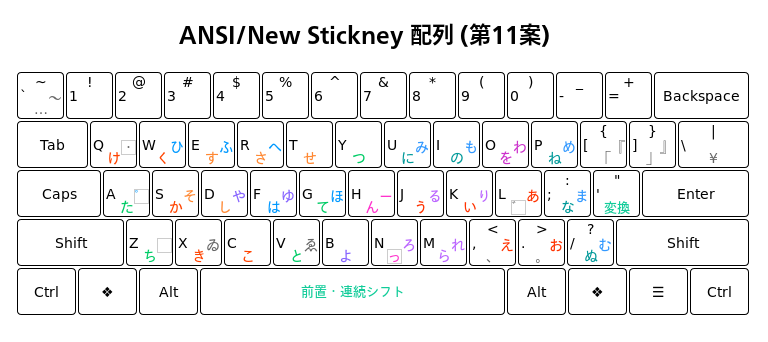
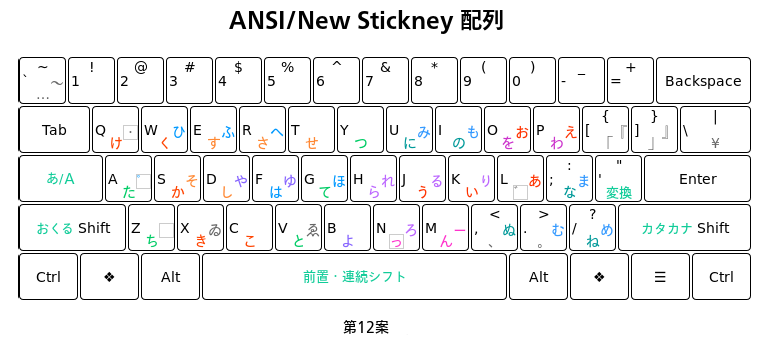
Add New Stickney 12th layout.
README.md
docs/new-stickney.png
docs/new-stickney12.html

diff --git a/docs/new-stickney12.html b/docs/new-stickney12.html
@@ -1,0 +1,228 @@
+<!doctype html>
+<html lang='en'>
+<head>
+<meta charset='UTF-8'>
+<link rel='license' href='http://creativecommons.org/publicdomain/zero/1.0/'>
+<title>ANSI/New Stickney 配列(第11案)</title>
+<style>
+body {
+  margin: 4px;
+  font-family: 'Tazugane Gothic StdN', sans-serif;
+  font-size: 14px;
+}
+h1 {
+  font-size: 1.6em;
+  width: 720px;
+  text-align: center;
+}
+.center {
+  width: 720px;
+  text-align: center;
+}
+
+.kbd {
+  position: relative;
+  height: 260px;
+  white-space: nowrap;
+  font-family: sans-serif;
+  font-size: 14px;
+}
+.layer {
+  position: absolute;
+}
+.layer>div {
+  display: inline-block;
+  padding: 1px;
+  width: 45px;
+  height: 45px;
+  margin: 1px;
+  vertical-align: bottom;
+}
+.layer>.k125 {
+  width: 57px;
+}
+.layer>.k150 {
+  width: 69px;
+}
+.layer>.k175 {
+  width: 82px;
+}
+.layer>.k200 {
+  width: 93px;
+}
+.layer>.k225 {
+  width: 105px;
+}
+.layer>.k275 {
+  width: 131px;
+}
+.layer>.k625 {
+  width: 303px;
+}
+.small {
+  display: inline-block;
+  border: 1px solid #ccc;
+  width: 13px;
+  text-align: center;
+  line-height: 13px;
+  font-size: 13px;
+}
+.kana {
+  color: #1c9;
+  font-size: 13px;
+}
+.kana-border {
+  border: 1px solid #3c6;
+}
+
+.a {
+  color: #f30
+}
+.k {
+  color: #f40
+}
+.s {
+  color: #f83
+}
+.t {
+  color: #0c6
+}
+.n {
+  color: #099
+}
+.h {
+  color: #09f
+}
+.m {
+  color: #39f
+}
+.y {
+  color: #86f
+}
+.r {
+  color: #b6f
+}
+.w {
+  color: #c3c
+}
+.x {
+  color: #f3c
+}
+
+.L0 {
+  top: 2px;
+  left: 12px;
+}
+.L0>div {
+  padding: 0;
+  border: solid 1px black;
+  border-radius: 4px;
+  text-align: center;
+  line-height: 45px;
+}
+.L1 {
+  top: 2px;
+  left: 14px;
+  line-height: 45px;
+}
+.L2 {
+  top: 2px;
+  left: 12px;
+  text-align: center;
+}
+.L3 {
+  top: 15px;
+  left: 12px;
+  text-align: center;
+  line-height: 45px;
+  color: #666;
+}
+.L4 {
+  top: 4px;
+  left: 42px;
+  line-height: 45px;
+  color: #666;
+}
+
+.key {
+  display: inline-block;
+  padding: 2px;
+  border: 1px solid #888;
+  border-radius: 4px;
+  line-height: 14px;
+  font-size: 14px;
+  height: 16px;
+}
+
+</style>
+</head>
+<body>
+<h1>ANSI/New Stickney 配列</h1>
+
+<div class='kbd'>
+<div class='layer L0'>
+<div></div><div></div><div></div><div></div><div></div><div></div><div></div><div></div><div></div><div></div><div></div><div></div><div></div><div class='k200'>Backspace</div>
+<br>
+<div class='k150'>Tab</div><div></div><div></div><div></div><div></div><div></div><div></div><div></div><div></div><div></div><div></div><div></div><div></div><div class='k150'></div>
+<br>
+<div class='k175 kana'>あ/Ａ</div><div></div><div></div><div></div><div></div><div></div><div></div><div></div><div></div><div></div><div></div><div></div><div class='k225'>Enter</div>
+<br>
+<div class='k225'><span class='kana'>おくる</span> Shift</div><div></div><div></div><div></div><div></div><div></div><div></div><div></div><div></div><div></div><div></div><div class='k275'><span class='kana'>カタカナ</span> Shift</div>
+<br>
+<div class='k125'>Ctrl</div><div class='k125'>❖</div><div class='k125'>Alt</div><div class='k625 kana'>前置・連続
+シフト</div><div class='k125'>Alt</div><div class='k125'>❖</div><div class='k125'>☰</div><div class='k125'>Ctrl</div>
+</div>
+
+<div class='layer L1'>
+<div>`</div><div>1</div><div>2</div><div>3</div><div>4</div><div>5</div><div>6</div><div>7</div><div>8</div><div>9</div><div>0</div><div>-</div><div>=</div><div class='k200'></div>
+<br>
+<div class='k150'></div><div>Q</div><div>W</div><div>E</div><div>R</div><div>T</div><div>Y</div><div>U</div><div>I</div><div>O</div><div>P</div><div>[</div><div>]</div><div class='k150'>\</div>
+<br>
+<div class='k175'></div><div>A</div><div>S</div><div>D</div><div>F</div><div>G</div><div>H</div><div>J</div><div>K</div><div>L</div><div>;</div><div>'</div><div class='k225'></div>
+<br>
+<div class='k225'></div><div>Z</div><div>X</div><div>C</div><div>V</div><div>B</div><div>N</div><div>M</div><div>,</div><div>.</div><div>/</div><div class='k275'></div>
+<br>
+<div class='k125'></div><div class='k125'></div><div class='k125'></div><div class='k625'></div><div class='k125'></div><div class='k125'></div><div class='k125'></div><div class='k125'></div>
+</div>
+
+<div class='layer L2'>
+<div>~</div><div>!</div><div>@</div><div>#</div><div>$</div><div>%</div><div>^</div><div>&amp;</div><div>*</div><div>(</div><div>)</div><div>_</div><div>+</div><div class='k200'></div>
+<br>
+<div class='k150'></div><div></div><div></div><div></div><div></div><div></div><div></div><div></div><div></div><div></div><div></div><div>{</div><div>}</div><div class='k150'>|</div>
+<br>
+<div class='k175'></div><div></div><div></div><div></div><div></div><div></div><div></div><div></div><div></div><div></div><div>:</div><div>"</div><div class='k225'></div>
+<br>
+<div class='k225'></div><div></div><div></div><div></div><div></div><div></div><div></div><div></div><div>&lt;</div><div>&gt;</div><div>?</div><div class='k275'></div>
+<br>
+<div class='k125'></div><div class='k125'></div><div class='k125'></div><div class='k625'></div><div class='k125'></div><div class='k125'></div><div class='k125'></div><div class='k125'></div>
+</div>
+
+<div class='layer L3'>
+<div>…</div><div></div><div></div><div></div><div></div><div></div><div></div><div></div><div></div><div></div><div></div><div></div><div></div><div class='k200'></div>
+<br>
+<div class='k150'></div><div><span class='k'>け</span></div><div class='k'>く</div><div class='s'>す</div><div class='s'>さ</div><div class='s'>せ</div><div class='t'>つ</div><div class='n'>に</div><div class='n'>の</div><div class='w'>を</div><div class='w'>わ</div><div>「</div><div>」</div><div class='k150'>¥</div>
+<br>
+<div class='k175'></div><div class='t'>た</div><div class='k'>か</div><div class='s'>し</div><div class='h'>は</div><div class='t'>て</div><div class='r'>ら</div><div class='a'>う</div><div class='a'>い</div><div><span class='small'>゛</span></div><div class='n'>な</div><div><span class='kana'>変換</span></div><div class='k225'></div>
+<br>
+<div class='k225'></div><div class='t'>ち</div><div class='k'>き</div><div class='k'>こ</div><div class='t'>と</div><div class='y'>よ</div><div><span class='small x'>っ</span></div><div class='x'>ん</div><div>、</div><div>。</div><div class='n'>ね</div><div class='k275'></div>
+<br>
+<div class='k125'></div><div class='k125'></div><div class='k125'></div><div class='k625'></div><div class='k125'></div><div class='k125'></div><div class='k125'></div><div class='k125'></div>
+</div>
+
+<div class='layer L4'>
+<div>〜</div><div></div><div></div><div></div><div></div><div></div><div></div><div></div><div></div><div></div><div></div><div></div><div></div><div class='k200'></div>
+<br>
+<div class='k150'></div><div><span class='small'>・</span></div><div class='h'>ひ</div><div class='h'>ふ</div><div class='h'>へ</div><div></div><div></div><div class='m'>み</div><div class='m'>も</div><div class='a'>お</div><div class='a'>え</div><div>『</div><div>』</div><div class='k150'></div>
+<br>
+<div class='k175'></div><div><span class='small h'>゜</span></div><div class='s'>そ</div><div class='y'>や</div><div class='y'>ゆ</div><div class='h'>ほ</div><div class='r'>れ</div><div class='r'>る</div><div class='r'>り</div><div class='a'>あ</div><div class='m'>ま</div><div></div><div class='k225'></div>
+<br>
+<div class='k225'></div><div><span class='small'>&nbsp</span></div><div>ゐ</div><div></div><div>ゑ</div><div class='w'></div><div class='r'>ろ</div><div class='x'>ー</div><div class='n'>ぬ</div><div class='m'>む</div><div class='m'>め</div><div class='k275'></div>
+<br>
+<div class='k125'></div><div class='k125'></div><div class='k125'></div><div class='k625'></div><div class='k125'></div><div class='k125'></div><div class='k125'></div><div class='k125'></div>
+</div>
+</div>
+
+<div class='center'>第12案</div>
+
+</body>
+</html>
